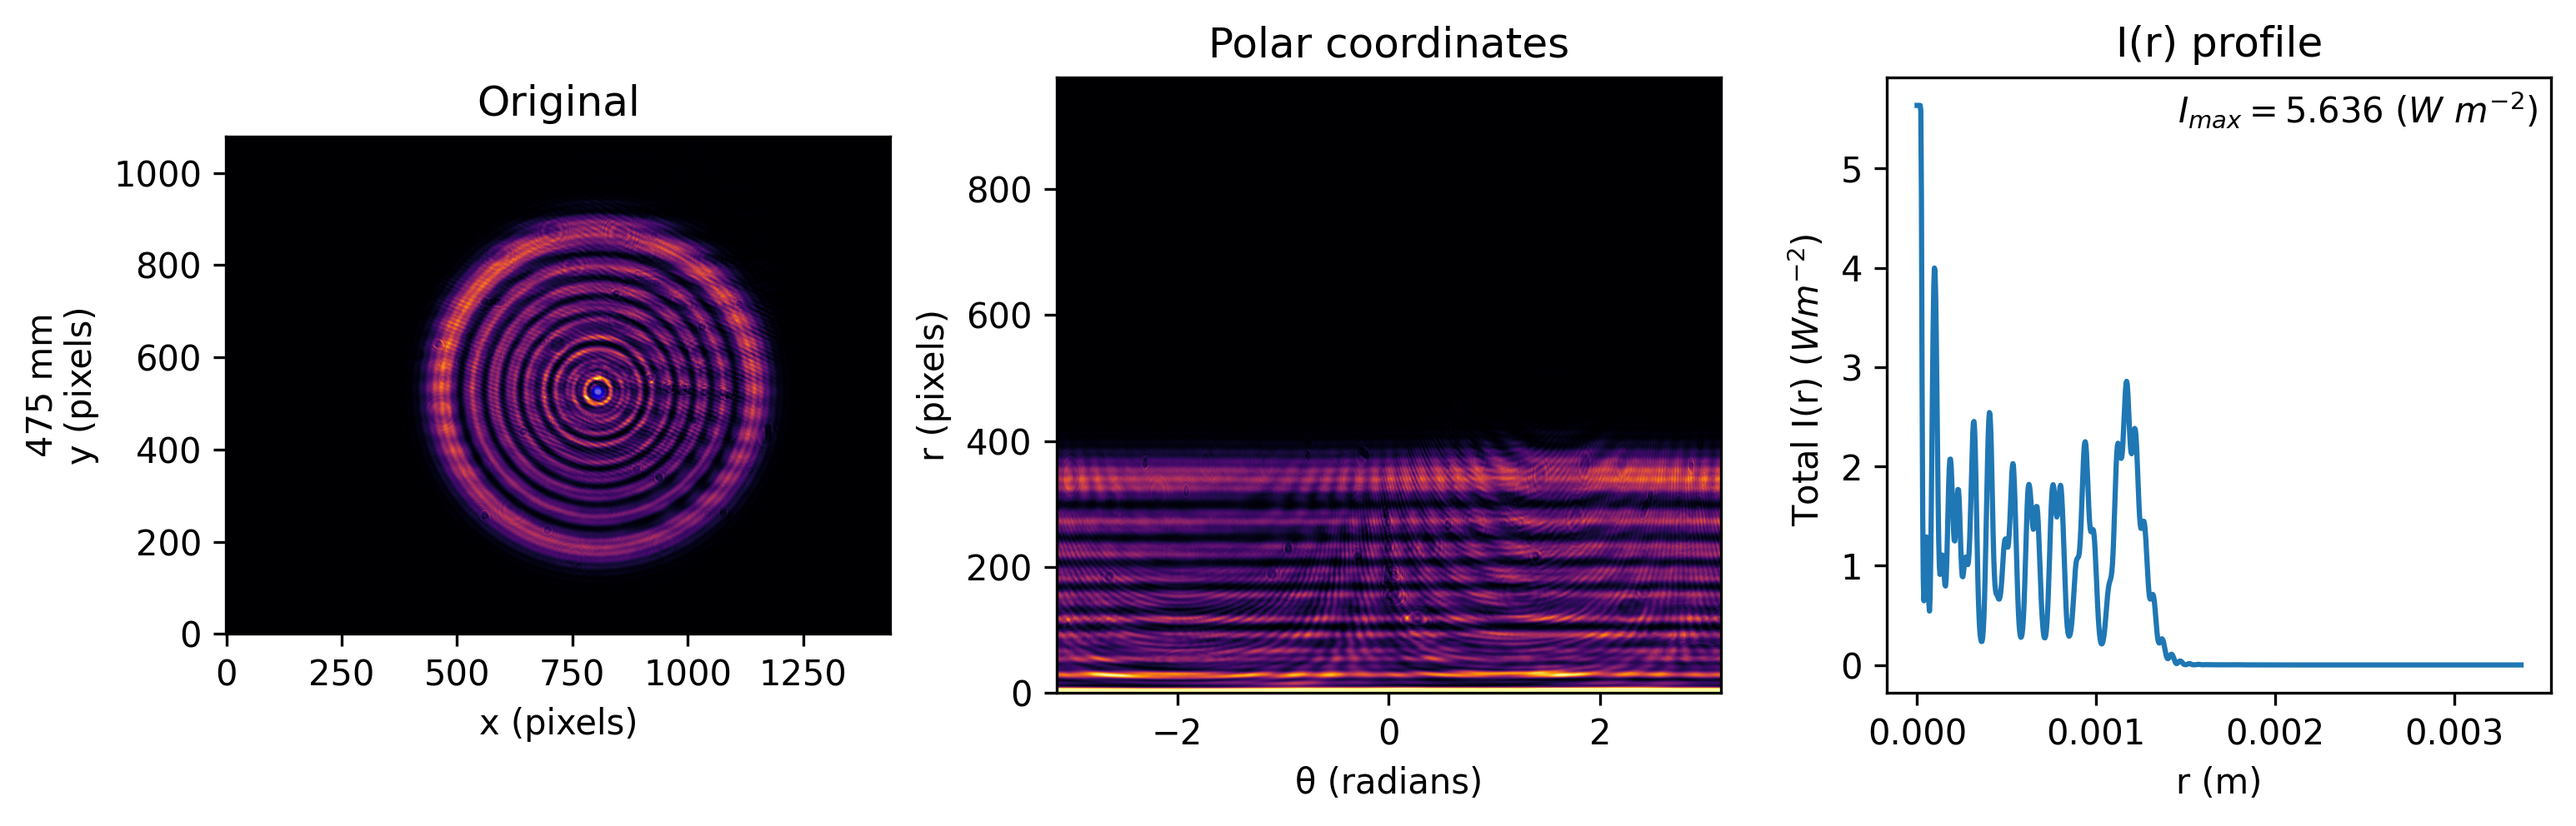
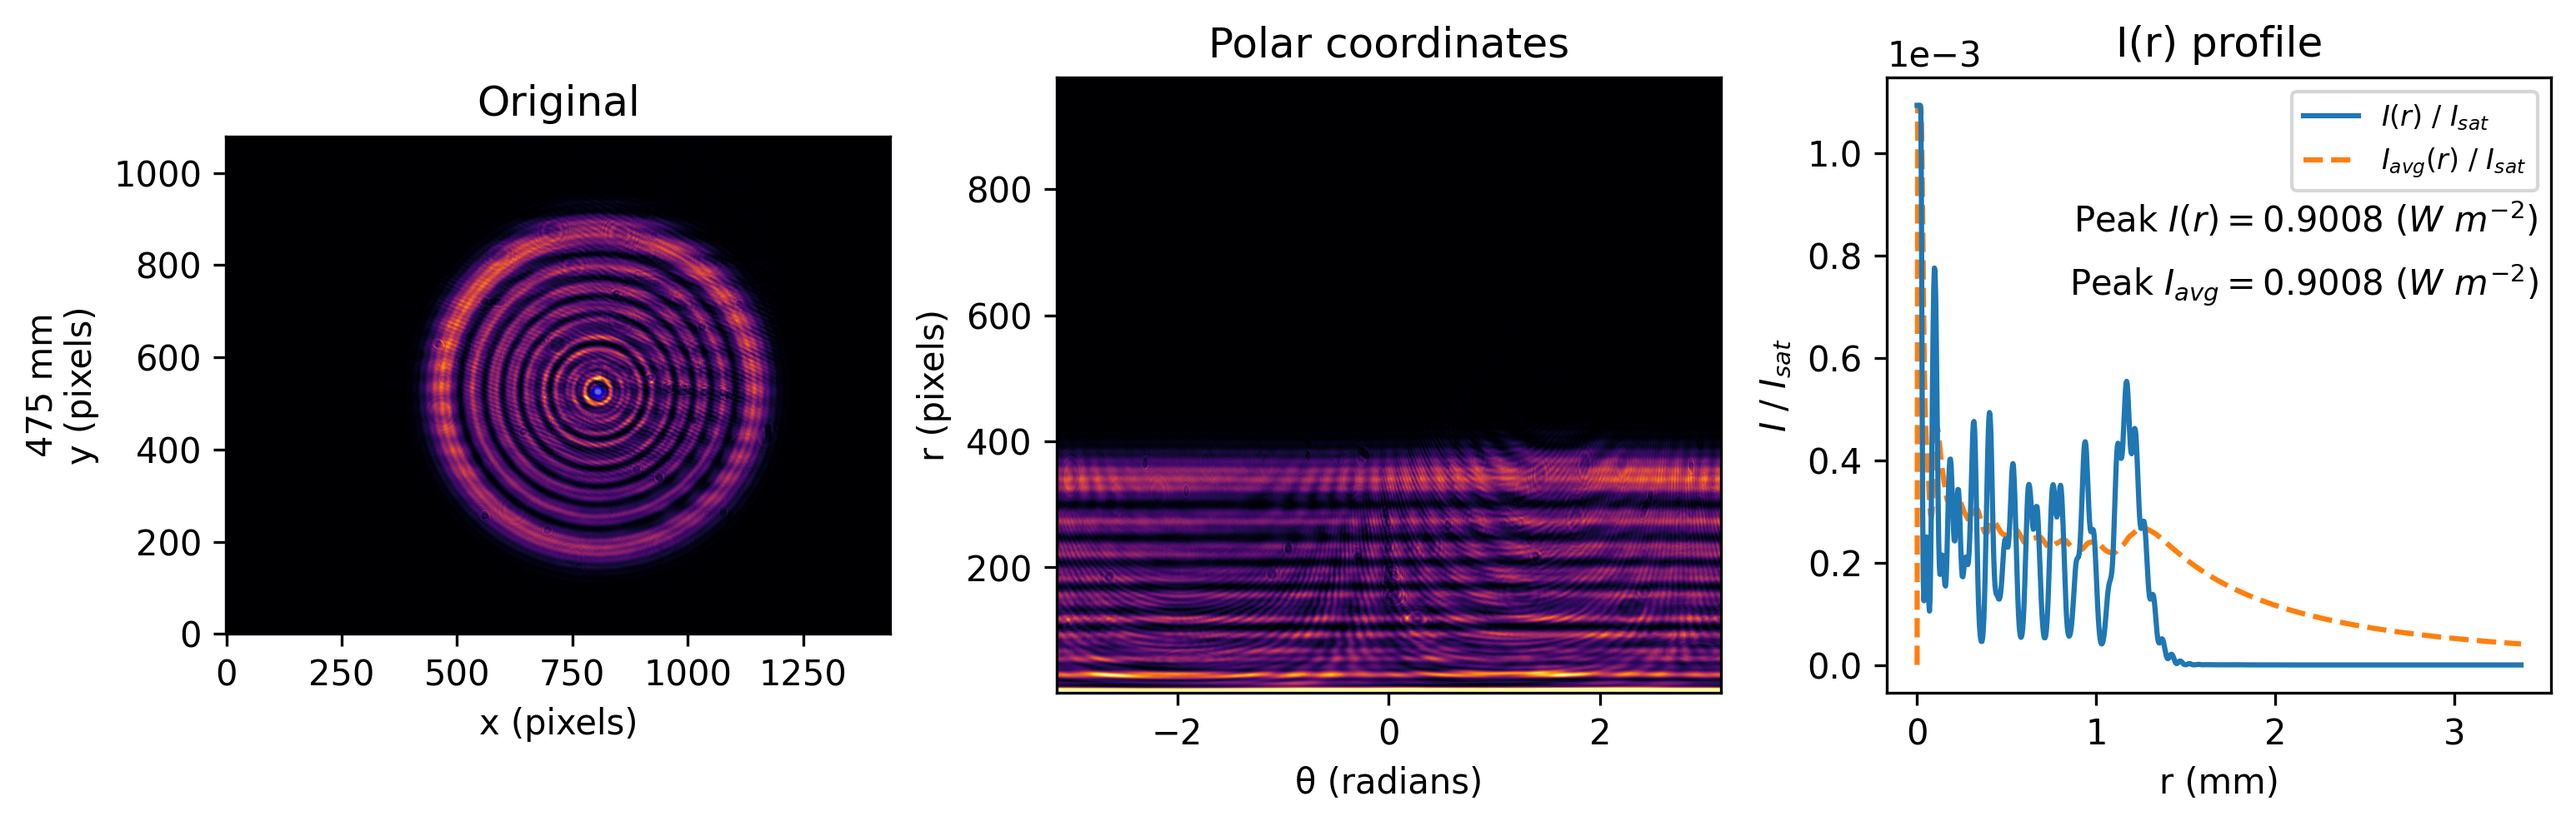
35

diff --git a/imageIntegration.py b/imageIntegration.py
@@ -2,24 +2,27 @@ import numpy as np
 import matplotlib.pyplot as plt
 from scipy.ndimage import map_coordinates, center_of_mass
 import os
+from scipy.integrate import cumulative_trapezoid as cumtrapz
 
 h = 6.62607015e-34  # Planck's constant (J·s)
 c = 2.99792458e8    # speed of light (m/s)
-wavelength = 328.16e-9 #wavelength of light
+wavelength = 328.1625e-9 #wavelength of light
+gamma_nat = 1.4e8
+I_sat = (np.pi * h * c * gamma_nat)/(3 * wavelength**3)
 
 # --- Configuration ---
 os.chdir(r"C:\\Users\\Alienware\\OneDrive - Durham University\\Level_4_Project\\Lvl_4\\Repo")
 print("Now running in:", os.getcwd())
-focus_distance = None#475 # Only show a certain distance
+focus_distance = 475 # Only show a certain distance
 
-#save_all_plots = True
-save_all_plots = False
+save_all_plots = True
+#save_all_plots = False
 
 pixel_size = 3.45e-6 #m
 pixel_area = pixel_size**2 #3.45 x 3.45 micrometers squared
 photon_energy = h * c / wavelength
 
-p_total = 1.2e-6 #W #(0.460-0.023)*1e-6
+p_total = 1.205e-6 #W #(0.460-0.023)*1e-6
 print("TOTAL MEASURED POWER = " + str(p_total))
 
 beam_images = {
@@ -70,7 +73,12 @@ def process_image(distance, centre=None, exposure=None, normalise=False):
 	# exposure handling
 	if exposure is None:
 		exposure = default_exposure
-	img = img / (exposure * 255) #gives number of scaled counts per second from the image
+	img = img / (exposure * 255) #gives unscaled intensity values to each pixel
+
+	sf = 1
+
+	#print(np.sum(img))
+
 	if normalise:
 		img = img / img.max()
 	# beam centre
@@ -80,9 +88,6 @@ def process_image(distance, centre=None, exposure=None, normalise=False):
 		cy, cx = center_of_mass(img)
 
 	# coordinate grid
-	#x = np.arange(nx) - cx
-	#y = np.arange(ny) - cy
-	#X, Y = np.meshgrid(x, y)
 	corners = np.array([
 		[0 - cx,     0 - cy],
 		[nx-1 - cx,  0 - cy],
@@ -95,7 +100,8 @@ def process_image(distance, centre=None, exposure=None, normalise=False):
 	nr = int(np.ceil(r_max))
 	nt = int(np.ceil(2 * np.pi * r_max))
 	nt = min(nt, 6000)
-	r = np.linspace(0, r_max, nr) #convert r in pixels to r in m
+	r = np.linspace(0, r_max, nr) #convert pixel lengths to real lengths in m
+	r_m = r * pixel_size
 	theta = np.linspace(-np.pi, np.pi, nt) #theta in radians
 	r_grid, theta_grid = np.meshgrid(r, theta, indexing="ij")
 	x_p = r_grid * np.cos(theta_grid) + cx
@@ -103,24 +109,35 @@ def process_image(distance, centre=None, exposure=None, normalise=False):
 	polar_img = map_coordinates(img, [y_p, x_p], order=1)
 
 	# integration
-	P_r_unnorm = np.trapezoid(polar_img, theta, axis=1) #gives the power per unit radial length
-	P_total = np.trapezoid(P_r_unnorm * r, r) #Integrates over r to get the power, need to apply a scale factor so it equals the total measured power
-	scale_factor = p_total / P_total 
-	profile_x = r*pixel_size #radial size in m
-	profile_y = (P_r_unnorm * scale_factor) / pixel_area #summed intensity at each value of r
-	I_Peak = np.max(profile_y)
+	P_r_unnorm = np.trapezoid(polar_img, theta, axis=1)#gives the power per unit radial length
+	P_total = np.trapezoid(P_r_unnorm * r, r)#Integrates over r to get the power, need to apply a scale factor so it equals the total measured power
+	P_encircled = cumtrapz(P_r_unnorm * r, r, initial=0)
+	#print(distance, P_total)
+	scale_factor = p_total / (P_total)
+	#Total measured power is known
+
+	profile_x = r * pixel_size #radial size in m
+	profile_y = (P_r_unnorm * (scale_factor / pixel_area)) / (np.pi * 2) # average intensity per radius
+	r_safe = r
+	r_safe[0] = r_safe[1]
+	I_avg_area = P_encircled / (np.pi * r_safe**2)  # avoid divide-by-zero at r=0
+	I_avg_area[0] = 0
+	I_avg_area_scaled = I_avg_area * (scale_factor / pixel_area)
+
+	I_Peak = np.max(profile_y) #peak intensity of radial average intensity distribution
+	I_Ave_Peak = np.max(I_avg_area_scaled)
 	profile_label = "I(r)"
 	polar_extent = (theta.min(), theta.max(), r.min(), r.max())
 	polar_xlabel = "θ (radians)"
 	polar_ylabel = "r (pixels)"
 
-	return img, polar_img, profile_x, profile_y, P_total, (cx, cy), polar_extent, polar_xlabel, polar_ylabel, profile_label, I_Peak
+	return img, polar_img, profile_x, profile_y, P_total, (cx, cy), polar_extent, polar_xlabel, polar_ylabel, profile_label, I_Peak, I_avg_area_scaled, I_Ave_Peak
 
 
 # --- Process all images ---
 results = {}
 for d, info in beam_images.items():
-	img, polar_img, x_prof, y_prof, P, centre, polar_extent, polar_xlabel, polar_ylabel, profile_label, I_max = process_image(
+	img, polar_img, x_prof, y_prof, P, centre, polar_extent, polar_xlabel, polar_ylabel, profile_label, I_max, I_ave_profile, I_ave_peak = process_image(
 		d,
 		centre=info.get("centre"),
 		exposure = info.get("exposure") or default_exposure,
@@ -139,9 +156,11 @@ for d, info in beam_images.items():
 		"polar_ylabel": polar_ylabel,
 		"profile_label": profile_label,
 		"I_max": I_max,
+		"I_Ave_profile" : I_ave_profile,
+		"I_Ave_max": I_ave_peak,
 	}
 
-plot_main = False
+plot_main = not False
 if plot_main:
 	# --- Decide what to plot ---
 	if focus_distance is not None:
@@ -195,16 +214,26 @@ if plot_main:
 			axs[i, 1].set_xlabel(polar_xlabel)
 
 		# --- Column 3: Integrated profile ---
-		axs[i, 2].plot(x_prof, y_prof)
-		axs[i, 2].set_ylabel(" Total I(r) ($W m^{-2}$)")
-		I_round = round_sig(I_max,4)
+		axs[i, 2].plot(x_prof * 1e3, y_prof / I_sat, label=r"$I(r)$ / $I_{sat}$", zorder = 1)
+		axs[i, 2].plot(x_prof * 1e3, data["I_Ave_profile"] / I_sat, '--', label=r"$I_{avg}(r)$ / $I_{sat}$", zorder = 0)
+		axs[i, 2].legend(loc="upper right", fontsize=8)
 
-		axs[i, 2].text(0.98,0.98,
-			r"$I_{max} = $" + f"{I_round}" + " ($W~m^{-2}$)",
+		axs[i, 2].set_ylabel(r"$I$ / $I_{sat}$")
+		I_round = round_sig(I_max, 4)
+		I_round2 = round_sig(I_ave_peak, 4)
+
+		axs[i, 2].text(0.98,0.8,
+			r"Peak $I(r) = $" + f"{I_round}" + " ($W~m^{-2}$)",
 			ha='right', va='top',
 			transform=axs[i, 2].transAxes,
 			fontsize=10,)
 			#bbox=dict(facecolor='white', edgecolor='none', alpha=0.7, boxstyle='round,pad=0.3'))
+
+		axs[i, 2].text(0.98,0.7,
+			r"Peak $I_{avg} = $" + f"{I_round2}" + " ($W~m^{-2}$)",
+			ha='right', va='top',
+			transform=axs[i, 2].transAxes,
+			fontsize=10,)
 
 		if i == 0:
 			axs[i, 2].set_title(f"{profile_label} profile")
@@ -212,7 +241,9 @@ if plot_main:
 			axs[i, 2].set_xlabel("")
 			axs[i, 2].set_xticklabels([])
 		else:
-			axs[i, 2].set_xlabel("r (m)")
+			axs[i, 2].set_xlabel("r (mm)")
+
+		axs[i, 2].ticklabel_format(style='sci', axis='y', scilimits=(-3, 3))
 
 		# Label each row on the left with its distance
 		axs[i, 0].text(-0.25, 0.5, f"{d} mm", transform=axs[i, 0].transAxes,
@@ -231,7 +262,6 @@ from mpl_toolkits.mplot3d import Axes3D  # noqa: F401  (needed for 3D plotting)
 if focus_distance is None:
 
 	# --- Create a heatmap of all I(r) profiles (radius vs distance) ---
-	import matplotlib.pyplot as plt
 
 	# Extract and align all I(r) profiles
 	distances = sorted(results.keys())
@@ -244,7 +274,7 @@ if focus_distance is None:
 	for d in distances:
 		x_prof = results[d]["x_prof"]
 		y_prof = results[d]["y_prof"]
-		I_interp = np.interp(r_common, x_prof, y_prof)
+		I_interp = np.interp(r_common, x_prof, y_prof)/I_sat
 		I_profiles.append(I_interp)
 
 	I_profiles = np.array(I_profiles)  # shape = (num_distances, num_r_points)
@@ -260,32 +290,77 @@ if focus_distance is None:
 		extent=extent,
 		aspect='auto',
 		origin='lower',
-		cmap='inferno'
+		cmap='inferno',
+		interpolation='bilinear'
 	)
-	plt.colorbar(label=r"Intensity $I(r)$ (W m$^{-2}$)")
+	plt.colorbar(label=r"$I(r)$ / $I_{sat}$")
 	plt.xlabel("Distance (mm)")
 	plt.ylabel("Radius (mm)")
 	plt.title("Radial Intensity Profiles Heatmap")
 	plt.tight_layout()
+
+	plt.ticklabel_format(style='sci', axis='both', scilimits=(-3, 3))
 
 	if save_all_plots:
 		plt.savefig("I_r_heatmap.png", dpi=300, bbox_inches='tight')
 
 	plt.show()
 
+	# --- Create a heatmap of all ⟨I⟩(r) profiles (encircled average intensity vs distance) ---
+
+	# Interpolate all ⟨I⟩(r) profiles to the same r grid
+	I_Ave_profiles = []
+
+	for d in distances:
+		x_prof = results[d]["x_prof"]
+		y_ave = results[d]["I_Ave_profile"]
+		I_Ave_interp = np.interp(r_common, x_prof, y_ave)/I_sat
+		I_Ave_profiles.append(I_Ave_interp)
+
+	I_Ave_profiles = np.array(I_Ave_profiles)  # shape = (num_distances, num_r_points)
+	I_Ave_profiles = I_Ave_profiles.T  # transpose so radius is on y-axis
+
+	# Create the heatmap
+	plt.figure(figsize=(10, 6))
+	extent = [distances[0], distances[-1], r_common[0]*1e3, r_common[-1]*1e3]  # x=distance (mm), y=radius (mm)
+	plt.imshow(
+		I_Ave_profiles,
+		extent=extent,
+		aspect='auto',
+		origin='lower',
+		cmap='inferno',
+		interpolation='bilinear'
+	)
+	plt.colorbar(label=r"$I_{avg}(r)$ / $I_{sat}$")
+	plt.xlabel("Distance (mm)")
+	plt.ylabel("Radius (mm)")
+	plt.title("Encircled-Average Intensity Profiles Heatmap")
+	plt.tight_layout()
+
+	plt.ticklabel_format(style='sci', axis='y', scilimits=(-3, 3))
+
+	if save_all_plots:
+		plt.savefig("I_Ave_r_heatmap.png", dpi=300, bbox_inches='tight')
+
+	plt.show()
+
 	distances = list(results.keys())
-	I_max_values = [results[d]["I_max"] for d in distances]
+	I_max_values = np.array([results[d]["I_max"] for d in distances]) / I_sat
+	I_Ave_max_values = np.array([results[d]["I_Ave_max"] for d in distances]) / I_sat
 
 	plt.figure(figsize=(8, 5))
-	plt.plot(distances, I_max_values, "o-", color="tab:red")
+	plt.plot(distances, I_max_values, "o-", color="tab:red", zorder = 1, label = r"Peak $I(r)$")
+	plt.plot(distances, I_Ave_max_values , "x-", color="tab:orange", zorder = 0, label = r"Peak $I_{avg}$")
 	plt.xlabel("Distance from 0 point (mm)")
-	plt.ylabel(r"$I_\mathrm{max}$ (W m$^{-2}$)")
+	plt.ylabel(r"$I_{max}$ / $I_{sat}$")
 	plt.title("Peak intensity vs distance")
 	plt.tight_layout()
+	plt.legend(loc="lower right")
+
+	plt.ticklabel_format(style='sci', axis='y', scilimits=(-3, 3))
 
 	if save_all_plots:
 		plt.savefig("I_max_distance_graph", dpi=300, bbox_inches='tight')
-
 	plt.show()
 
 else:
